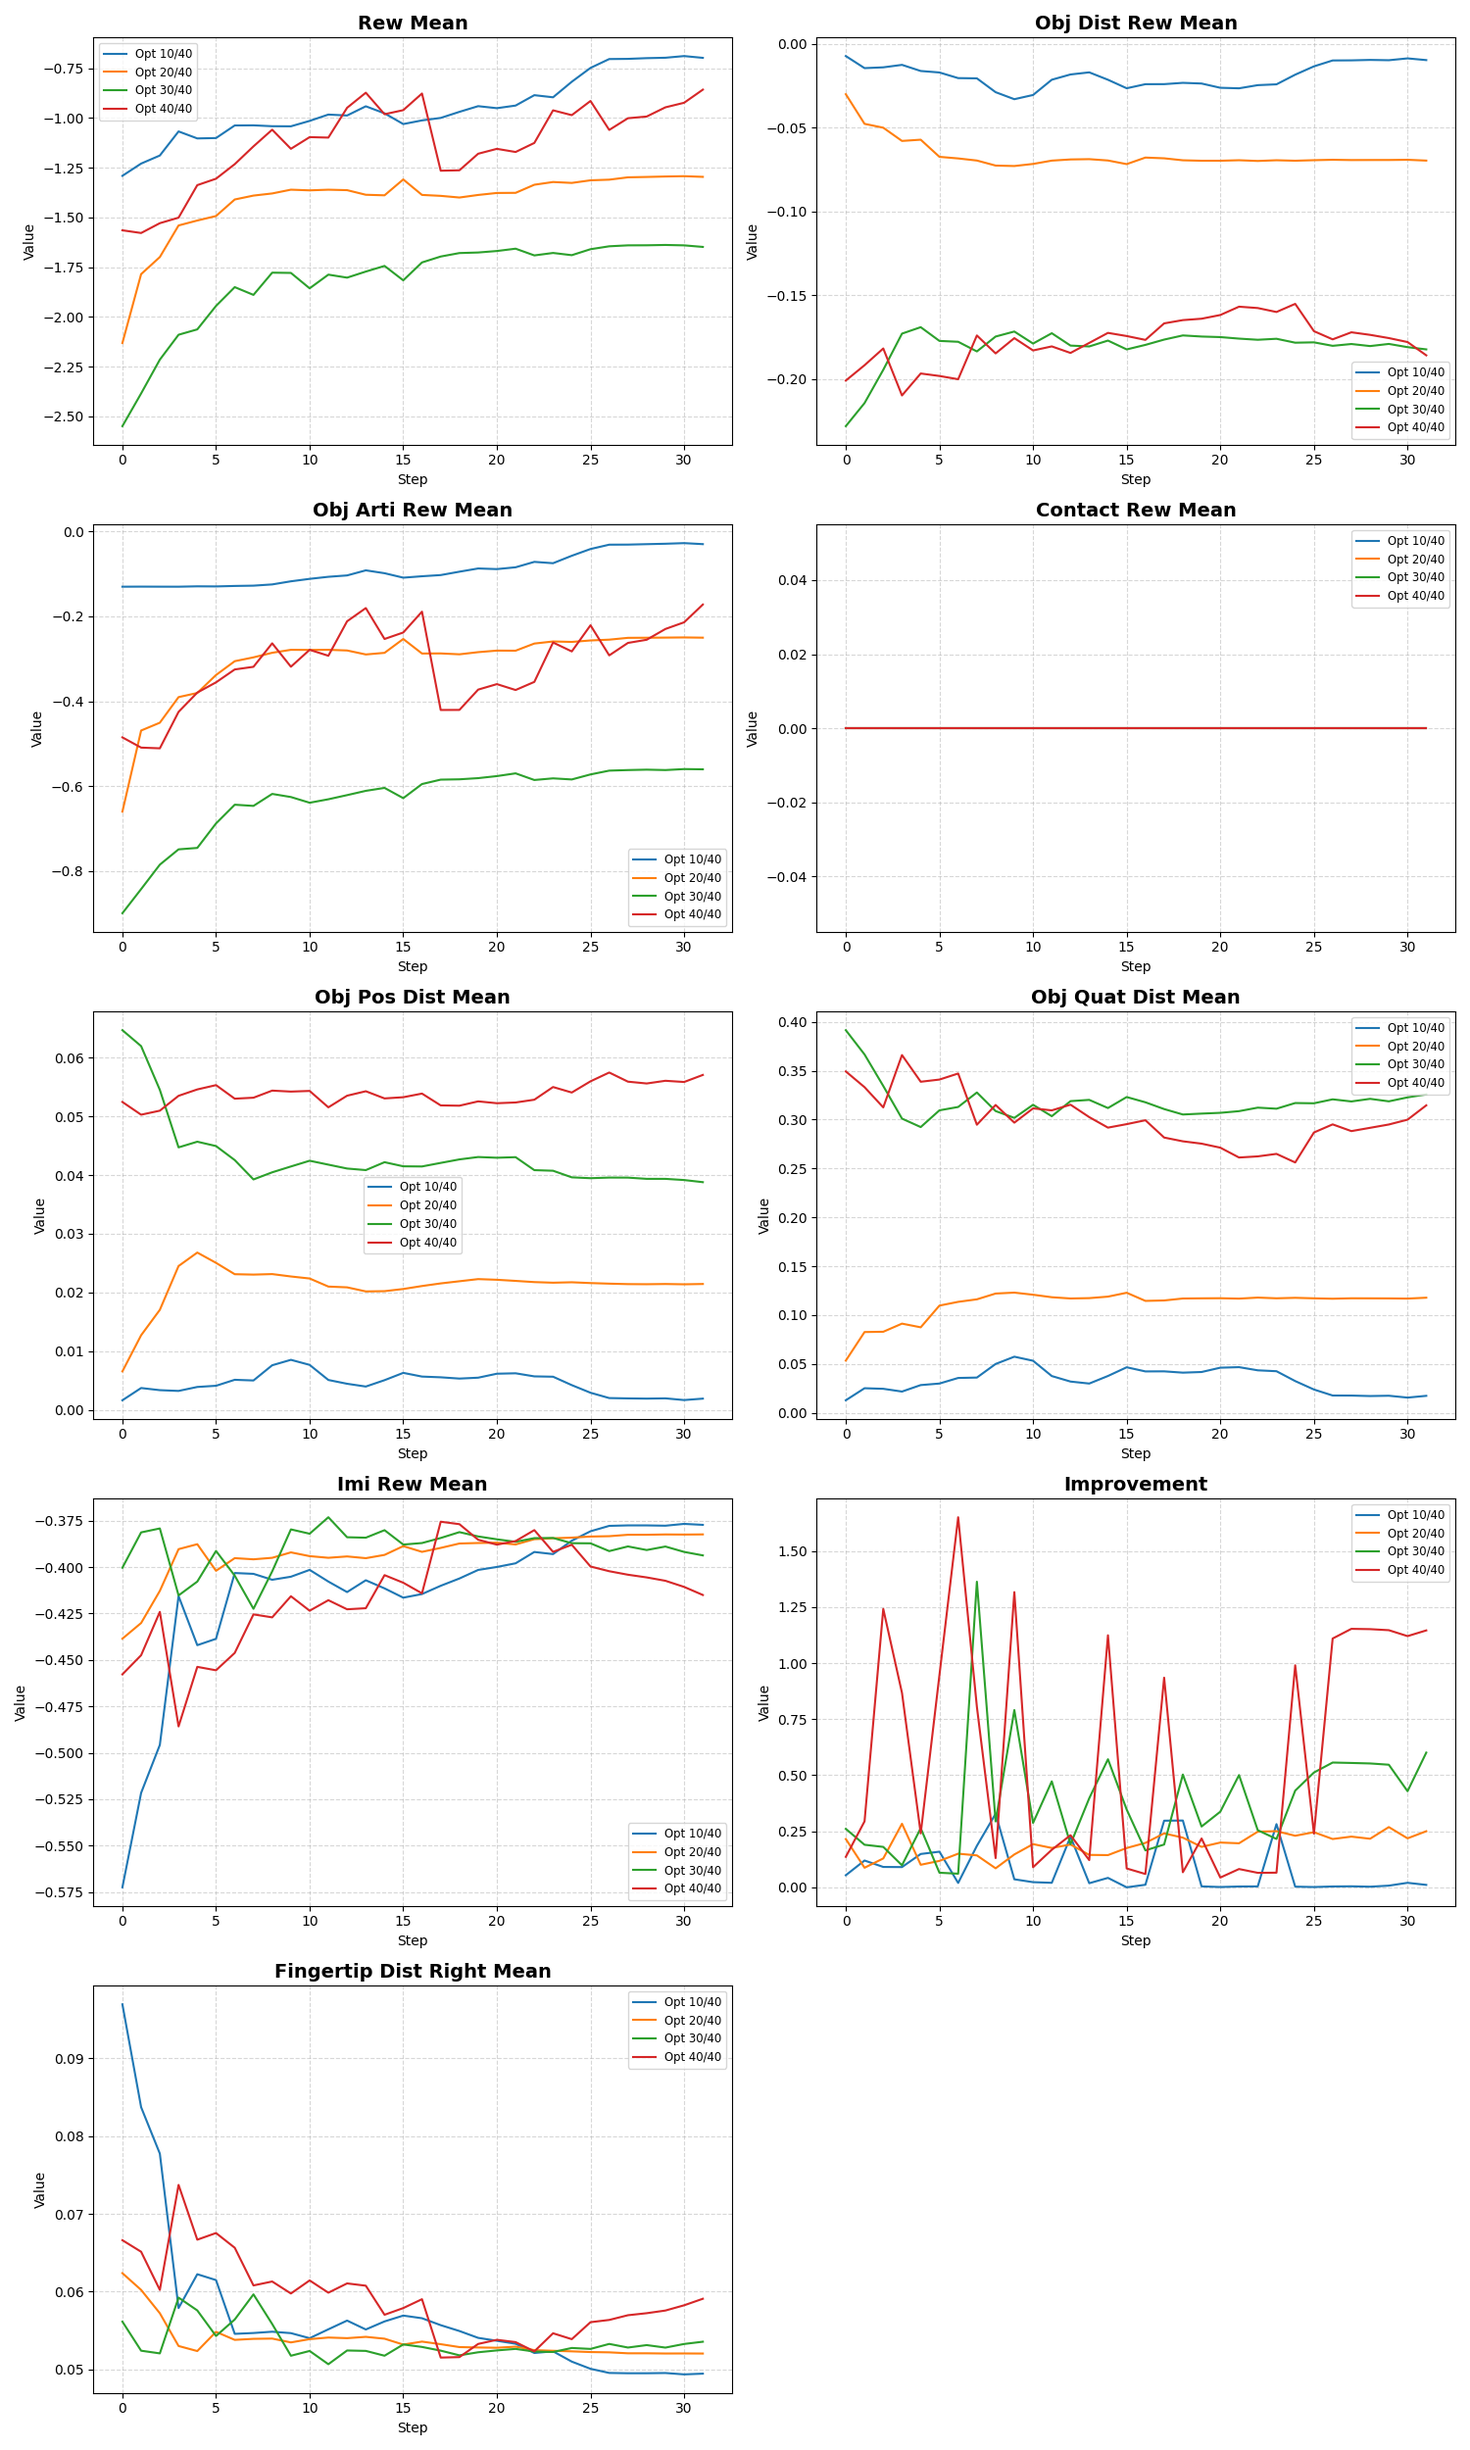
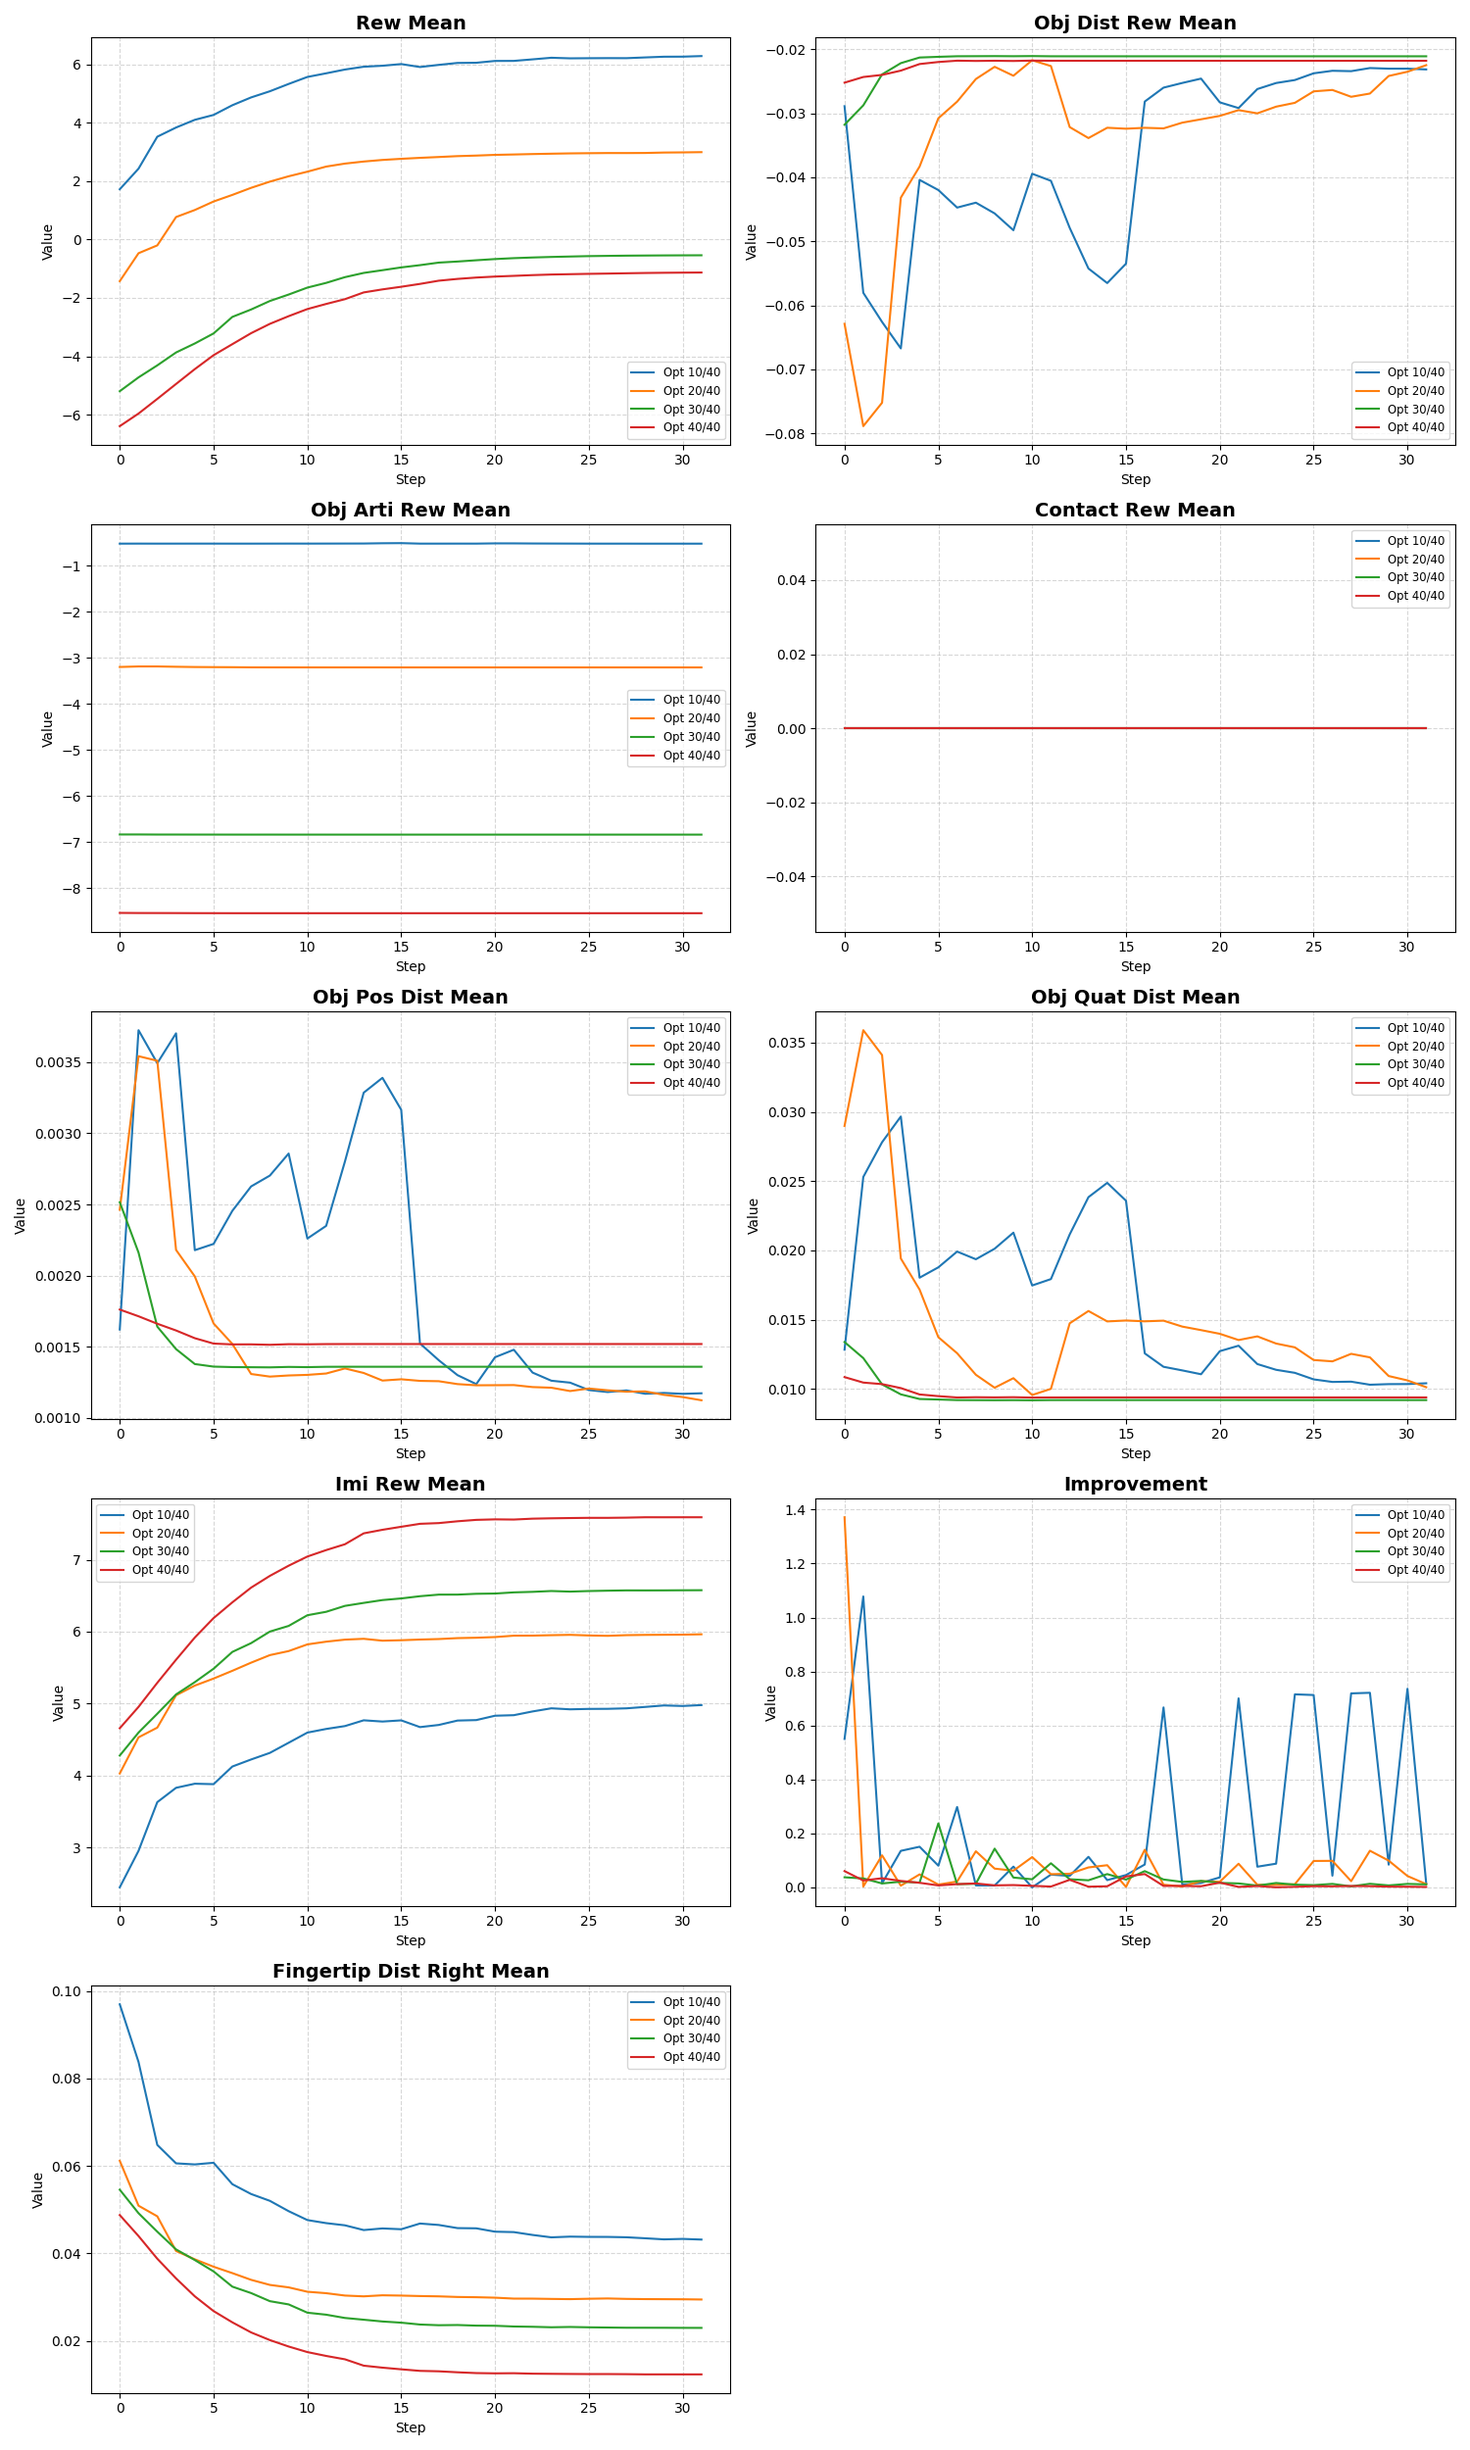
arguments for launching jobs

diff --git a/spider/simulators/dexmachina.py b/spider/simulators/dexmachina.py
@@ -318,6 +318,7 @@ def get_imitation_reward(
     imi_wrist_rot_beta: float = 3.0,
     imi_wrist_pos_beta: float = 10.0,
     exp_kpt_first: bool = True,
+    fingertip_rew_scale: float = 10.0,
 ) -> torch.Tensor:
     """Get the imitation reward based on keypoint and wrist tracking."""
     # Get keypoint positions
@@ -342,7 +343,7 @@ def get_imitation_reward(
     if exp_kpt_first: # True
         fingertip_rew_left = torch.exp(-imi_fingertip_beta * fingertip_dist_left)
         # fingertip_rew_right = 10 * torch.exp(-imi_fingertip_beta * fingertip_dist_right)
-        fingertip_rew_right = 10 * torch.exp(-imi_fingertip_beta * fingertip_dist_right)
+        fingertip_rew_right = fingertip_rew_scale * torch.exp(-imi_fingertip_beta * fingertip_dist_right)
         # fingertip_rew = torch.mean(
         #     (fingertip_rew_left + fingertip_rew_right) / 2.0, dim=-1
         # )  # (B, num_links) -> (B,)
@@ -487,17 +488,17 @@ def get_reward(
     # obj_arti_dist = torch.clamp(obj_arti_dist, min=0.0, max=1.0)
 
     # Base tracking reward
-    # obj_dist_rew = -obj_dist * 3.0
-    obj_dist_rew = -obj_dist* 1.0
-    # obj_arti_rew = -obj_arti_dist * 3.0
-    obj_arti_rew = -obj_arti_dist * 1.0
+    # obj_dist_rew = -obj_dist * 1.0
+    obj_dist_rew = -obj_dist * config.obj_dist_rew_scale
+    # obj_arti_rew = -obj_arti_dist * 1.0
+    obj_arti_rew = -obj_arti_dist * config.obj_arti_rew_scale
     reward = obj_dist_rew + obj_arti_rew
 
     # Add imitation reward if enabled
     imi_rew_weight = getattr(config, "imi_rew_weight", 3.0)
     if imi_rew_weight > 0.0:
-        imi_fingertip_beta = getattr(config, "imi_fingertip_beta", 10.0)
-        # imi_fingertip_beta = getattr(config, "imi_fingertip_beta", 14.0)
+        imi_fingertip_beta = getattr(config, "imi_fingertip_beta", config.imi_fingertip_beta)
+        # imi_fingertip_beta = getattr(config, "imi_fingertip_beta", 1.0)
         imi_wrist_weight = getattr(config, "imi_wrist_weight", 0.0)
         imi_wrist_rot_beta = getattr(config, "imi_wrist_rot_beta", 1.0)
         imi_wrist_pos_beta = getattr(config, "imi_wrist_pos_beta", 1.0)
@@ -511,6 +512,7 @@ def get_reward(
             imi_wrist_rot_beta=imi_wrist_rot_beta,
             imi_wrist_pos_beta=imi_wrist_pos_beta,
             exp_kpt_first=exp_kpt_first,
+            fingertip_rew_scale=config.fingertip_rew_scale,
         )
     else:
         imi_rew = torch.zeros(env.num_envs, device=env.device)

diff --git a/examples/run_dexmachina_h5.py b/examples/run_dexmachina_h5.py
@@ -258,27 +258,30 @@ def main(config: Config):
     # print(f"obj_arti_dist: {obj_arti_dists.mean():.4f} ± {obj_arti_dists.std():.4f}")
     print(f"obj_arti_dist_rad: {obj_arti_dist_rad.mean():.4f} ± {obj_arti_dist_rad.std():.4f}")
 
+    file_name = f"{config.output_traj_name}_{config.obj_dist_rew_scale}_{config.obj_arti_rew_scale}_{config.fingertip_rew_scale}_{config.imi_fingertip_beta}"
     # save retargeted trajectory
     if config.save_info and len(info_list) > 0:
         info_aggregated = {}
         for k in info_list[0].keys():
             info_aggregated[k] = np.stack([info[k] for info in info_list], axis=0)
-        np.savez(f"{config.output_dir}/trajectory_dexmachina.npz", **info_aggregated)
+        # np.savez(f"{config.output_dir}/trajectory_dexmachina.npz", **info_aggregated)
+        np.savez(f"{config.output_dir}/{file_name}.npz", **info_aggregated)
         loguru.logger.info(
-            f"Saved info to {config.output_dir}/trajectory_dexmachina.npz"
+            f"Saved info to {config.output_dir}/{file_name}.npz"
         )
+
 
     # save video
     if config.save_video and len(env._recorded_frames) > 0:
         env.export_video(
-            f"{config.output_dir}/trajectory_dexmachina.mp4", wait_for_max=False
+            f"{config.output_dir}/{file_name}.mp4", wait_for_max=False
         )
         loguru.logger.info(
-            f"Saved video to {config.output_dir}/trajectory_dexmachina.mp4"
+            f"Saved video to {config.output_dir}/{file_name}.mp4"
         )
     # save retargeted trajectory to HDF5
     if config.save_info and len(traj_buffers["object_pos"]) > 0:
-        h5_path = f"{config.output_dir}/trajectory_dexmachina.h5"
+        h5_path = f"{config.output_dir}/{file_name}.h5"
 
         with h5py.File(h5_path, "w") as f:
             for k, v in traj_buffers.items():

diff --git a/spider/config.py b/spider/config.py
@@ -99,6 +99,13 @@ class Config:
     terminal_rew_scale: float = 1.0
     contact_rew_scale: float = 0.0
 
+    # === ADDITIONAL REWARD CONFIGURATION FOR BATCH JOBS===
+    obj_dist_rew_scale: float = 4.0
+    obj_arti_rew_scale: float = 4.0
+    fingertip_rew_scale: float = 10.0
+    imi_fingertip_beta: float = 13.0
+    output_traj_name: str = "trajectory_dexmachina"
+
     # === VISUALIZATION CONFIGURATION ===
     show_viewer: bool = True
     viewer: str = "mujoco"  # "mujoco" | "rerun" | "isaac"
